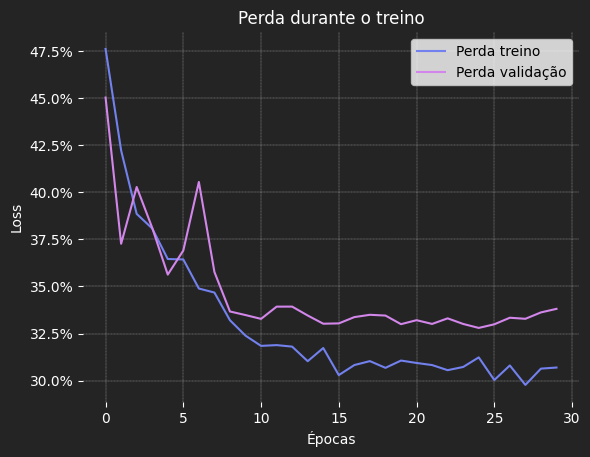
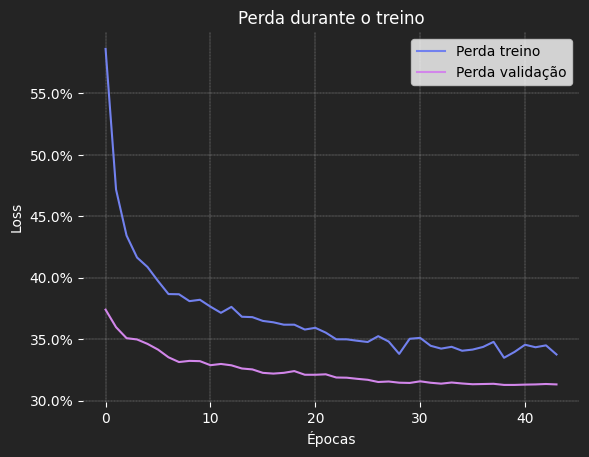
new keras model

diff --git a/notebooks/README.md b/notebooks/README.md
@@ -1,36 +1,41 @@
-# Treinamento do Modelo
+# 📚 Treinamento do Modelo
 
 **Adendo**: o arquivo `modelos/keras_model.py` deve ser movido para a pasta `app/models` para ser usado na API.
 
-## Configurações do Treinamento
+## ⚙ Configurações do Treinamento
 
 Configurações do treinamento:
 
 | Parâmetro | Valor | Descrição |
 | --- | --- | --- |
 | `rescale` | 1./255 | Normaliza as imagens para valores entre 0 e 1 |
-| `validation_split` | 0.2 | Define a porcentagem de imagens para validação |
-| `rotation_range` | 20 | Gira as imagens em até 20 graus |
-| `zoom_range` | 0.2 | Aplica um zoom de até 20% nas imagens |
+| `validation_split` | 0.15 | Define a porcentagem de imagens para validação |
+| `rotation_range` | 30 | Gira as imagens em até 30 graus |
+| `zoom_range` | 0.3 | Aplica um zoom de até 30% nas imagens |
 | `horizontal_flip` | True | Aplica flip horizontal nas imagens |
 | `batch_size` | 32 | Tamanho do lote de imagens para treinamento |
 | `class_mode` | 'binary' | Define o tipo de problema como binário (0 ou 1) |
-| `subset` | 'training' | Define que as imagens devem ser usadas para treinamento |
+| `input_size` | (224, 224, 3) | Tamanho das imagens de entrada |
+| `model_base` | MobileNetV2 | Modelo pré-treinado utilizado como base |
+| `optimizer` | Adam com Cosine Decay | Otimizador com agendamento de taxa de aprendizado |
+| `callbacks` | EarlyStopping, ModelCheckpoint | Estratégias para evitar overfitting e salvar o melhor modelo |
 
 ## Modelo
 
-Modelo:
+Arquitetura do modelo utilizada (Transfer Learning):
 
-* Camada de entrada: **224x224x3**
-* Camada de saída: **1** (binário)
-* Camadas ocultas:
-  * **ReLU**: 128 neurônios
-  * **Dropout**: 50%
-  * **Sigmoid**: 1 neurônio
+* **Camada de entrada**: Imagem RGB com dimensão 224x224x3
+* **Base**: MobileNetV2 pré-treinada no ImageNet, com pesos congelados inicialmente
+* **Camadas adicionais:**
+  * **Data Augmentation**: Flip horizontal, rotação, zoom e translação aleatória
+  * **GlobalAveragePooling2D**: Reduz as dimensões e evita overfitting
+  * **Dense**: 128 neurônios com ativação ReLU
+  * **Dropout**: 50% para reduzir overfitting
+  * **Dense** final: 1 neurônio com ativação Sigmoid para saída binária
 
 ## Resultados
 
-Treino utilizando o dataset [Melanoma Cancer Image Dataset](https://www.kaggle.com/datasets/bhaveshmittal/melanoma-cancer-dataset) + [Skin Cancer Malignant vs. Benign](https://www.kaggle.com/datasets/fanconic/skin-cancer-malignant-vs-benign)
+Treino utilizando o dataset [Melanoma Cancer Image Dataset](https://www.kaggle.com/datasets/bhaveshmittal/melanoma-cancer-dataset)
 
 ### Acurácia
 
@@ -39,3 +44,4 @@ Treino utilizando o dataset [Melanoma Cancer Image Dataset](https://www.kaggle.c
 ### Loss
 
 ![Loss](https://github.com/oleoespindola/derma-analyzer-api/blob/feature/auth/notebooks/charts/Loss%20-%20Dataset%20Public%20Image.png?raw=true)
+
